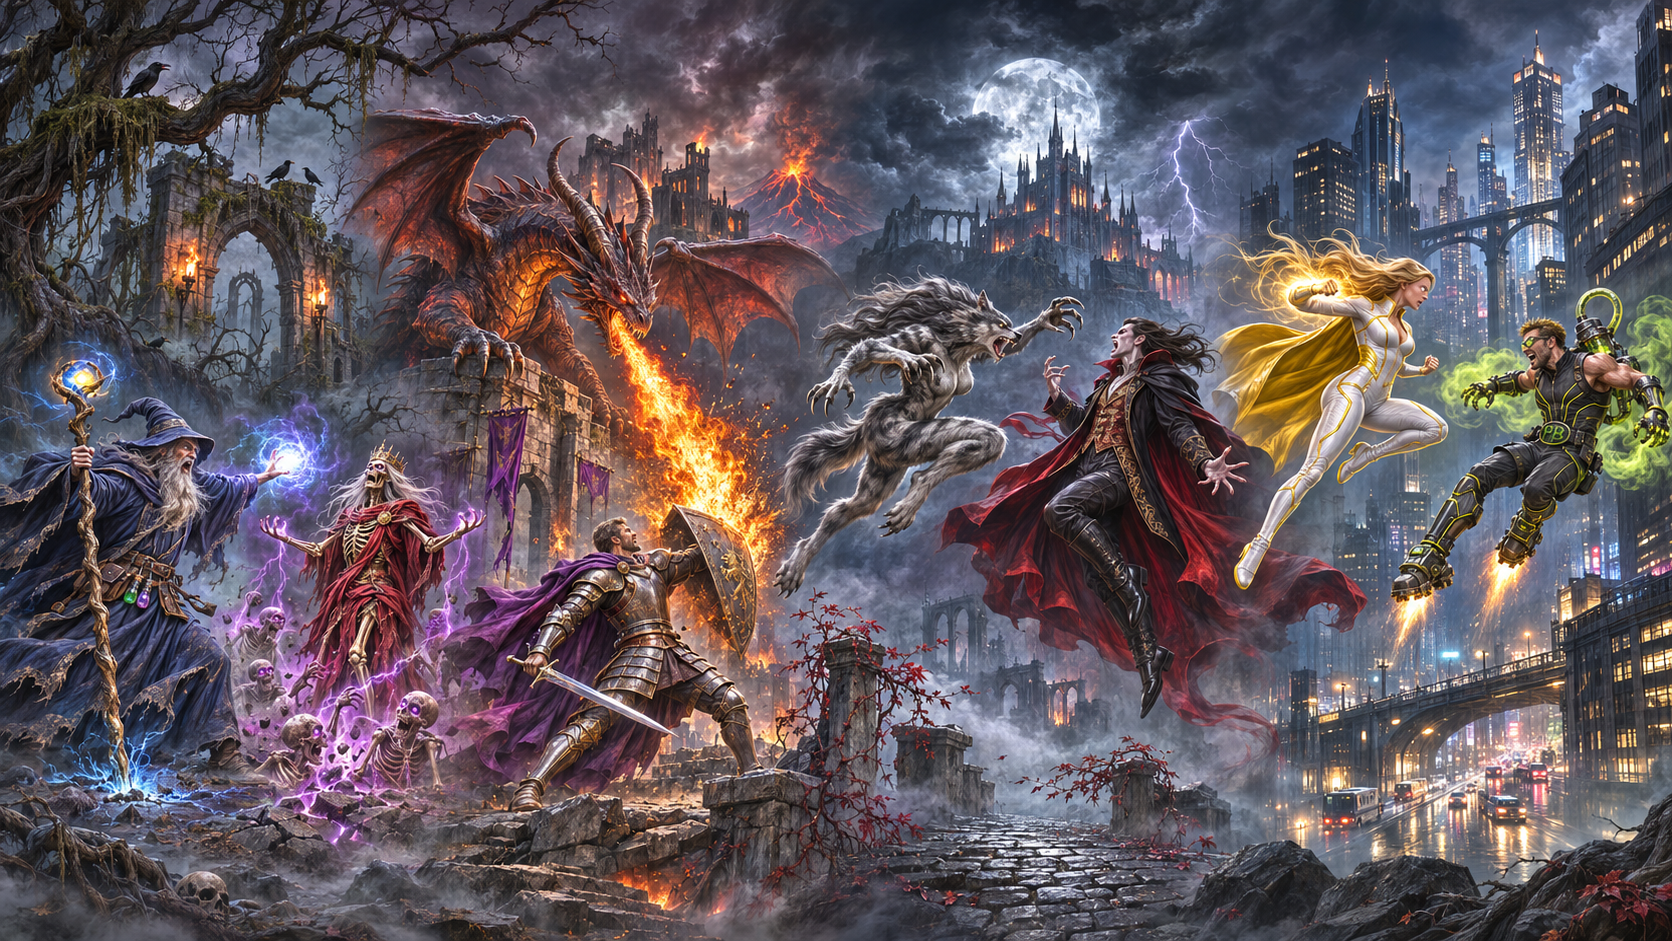
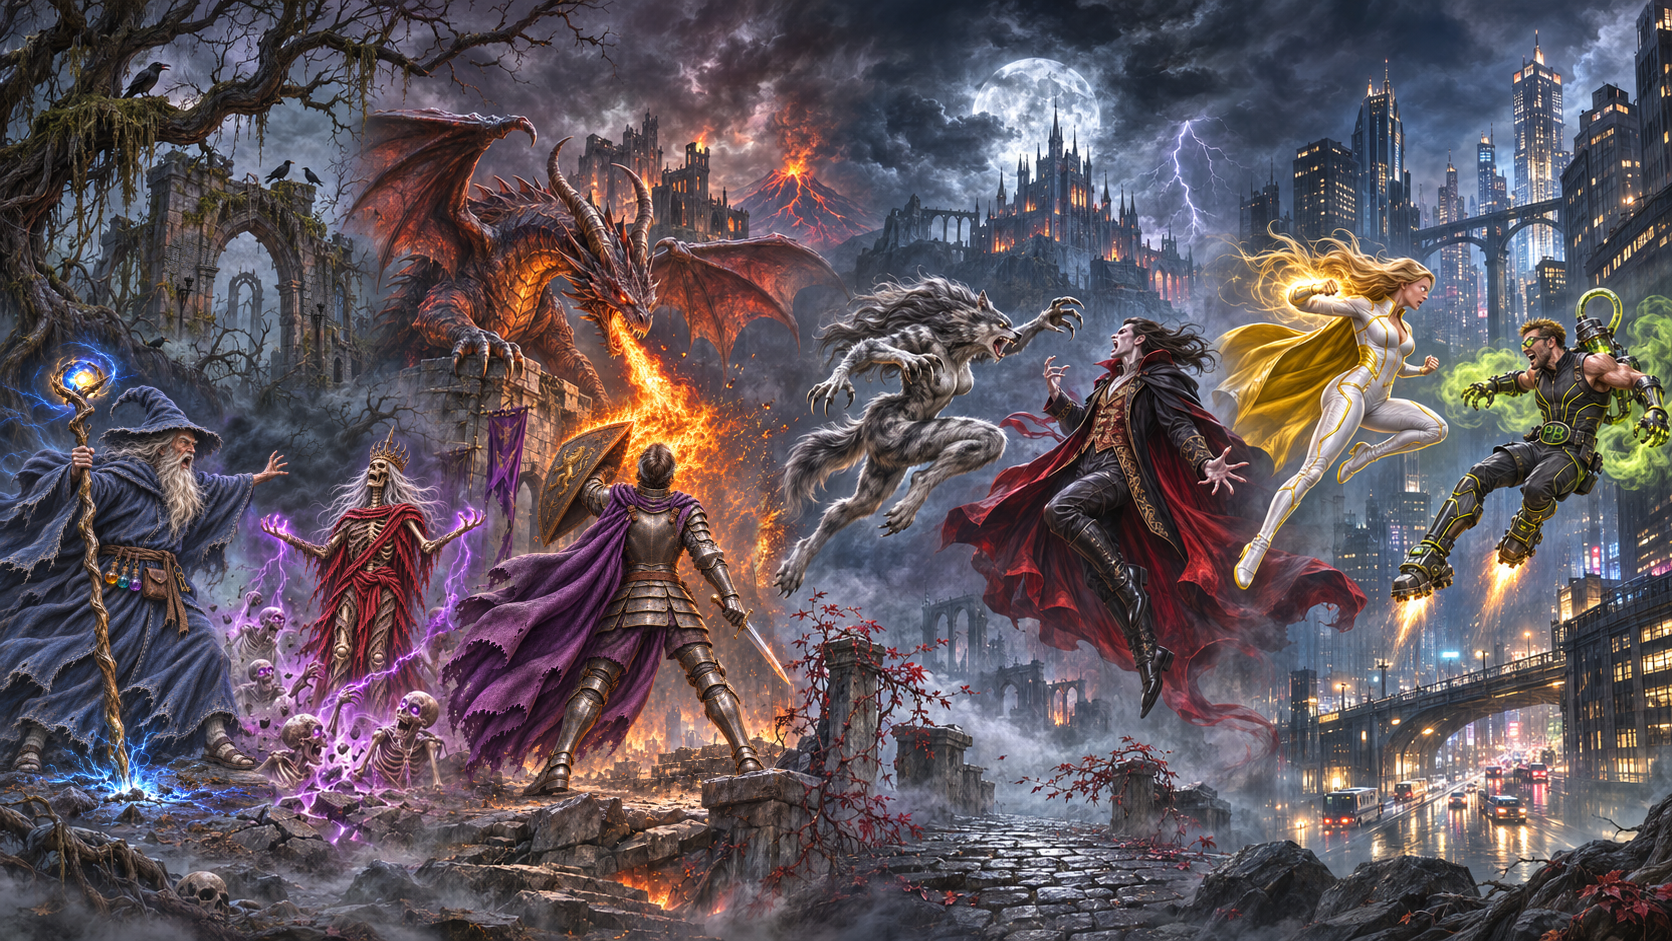
Refresh four-world mural effects
Add animated torch flames, ground fog, sparks, and necromancy wisps. Update the mural artwork and remove the crow and rising skeleton effects.

Changed region(s): [[0.0, 0.3698, 0.4976, 0.8937], [0.0933, 0.2465, 0.2177, 0.339]]

diff --git a/src/EchoesOfTheShardveil.Desktop/FourWorldMuralEffects.cs b/src/EchoesOfTheShardveil.Desktop/FourWorldMuralEffects.cs
@@ -9,8 +9,7 @@ namespace EchoesOfTheShardveil.Desktop;
 /// <summary>Animates details in the four-world menu painting in its original pixel coordinates.</summary>
 internal sealed class FourWorldMuralEffects : IDisposable
 {
-    private static readonly Point[] Torches = [new(191, 263), new(321, 295)];
-    private static readonly Point[] Crows = [new(143, 82), new(278, 171), new(309, 176)];
+    private static readonly Vector2[] Torches = [new(189, 280), new(320, 307)];
     private static readonly Point[] Windows =
     [
         new(1005, 244), new(1080, 199), new(1154, 280), new(1167, 277),
@@ -18,10 +17,14 @@ internal sealed class FourWorldMuralEffects : IDisposable
         new(1521, 84), new(1535, 114), new(1556, 123), new(1627, 198),
         new(1505, 689), new(1560, 680), new(1616, 667), new(1647, 688)
     ];
-    private static readonly (Vector2 Start, Vector2 End)[] Necromancy =
+    private static readonly Vector2 LeftPalm = new(273, 531);
+    private static readonly Vector2 RightPalm = new(471, 521);
+    private static readonly (Vector2 Socket, Vector2 Mouth, Vector2 Palm)[] Necromancy =
     [
-        (new(272, 621), new(274, 526)), (new(261, 666), new(280, 535)),
-        (new(412, 709), new(471, 520)), (new(304, 732), new(280, 535))
+        (new(274, 619), new(273, 630), LeftPalm),
+        (new(263, 670), new(261, 680), LeftPalm),
+        (new(315, 733), new(317, 746), LeftPalm),
+        (new(412, 710), new(403, 725), RightPalm)
     ];
     private static readonly Point[] Bolt =
         [new(1199, 117), new(1185, 126), new(1180, 147), new(1173, 156), new(1183, 173),
@@ -32,7 +35,8 @@ internal sealed class FourWorldMuralEffects : IDisposable
     private readonly Texture2D glow;
     private readonly Texture2D mural;
     private readonly (Texture2D Texture, Rectangle Bounds, float Motion)[] cloth;
-    private readonly (Texture2D Texture, Rectangle Bounds)[] skeletons;
+    private readonly Texture2D groundFog;
+    private readonly Texture2D torchFlame;
 
     /// <summary>Samples soft-edged patches of cloth and hair from the painting for small, localized motion.</summary>
     /// <param name="batch">The menu sprite batch.</param>
@@ -47,21 +51,13 @@ internal sealed class FourWorldMuralEffects : IDisposable
         this.mural = mural;
         cloth =
         [
-            ClothPatch(new(0, 491, 145, 258), 5),
-            ClothPatch(new(138, 459, 63, 92), 4),
-            ClothPatch(new(320, 545, 68, 139), 5),
             ClothPatch(new(494, 410, 34, 158), 4),
-            ClothPatch(new(440, 605, 187, 178), 7),
             ClothPatch(new(968, 475, 120, 172), 7),
             ClothPatch(new(1191, 550, 162, 144), 8),
             ClothPatch(new(1218, 327, 112, 141), 7)
         ];
-        skeletons =
-        [
-            RisingSkeleton(new(238, 598, 71, 83)),
-            RisingSkeleton(new(278, 711, 53, 78)),
-            RisingSkeleton(new(378, 679, 80, 117))
-        ];
+        groundFog = EmbeddedAssets.LoadPremultipliedTexture(mural.GraphicsDevice, "MainUI-GroundFog.png");
+        torchFlame = EmbeddedAssets.LoadPremultipliedTexture(mural.GraphicsDevice, "MainUI-TorchFlame.png");
     }
 
     /// <summary>Creates a soft light sprite shared by all mural effects.</summary>
@@ -102,15 +98,8 @@ internal sealed class FourWorldMuralEffects : IDisposable
             }
         }
 
-        for (var i = 0; i < skeletons.Length; i++)
-        {
-            var (texture, bounds) = skeletons[i];
-            var rise = MathHelper.SmoothStep(0, 6, Fade(Phase(time * 0.26f + i * 0.31f)));
-            batch.Draw(texture, new Vector2(bounds.X, bounds.Y - rise), Color.White * (rise / 6f));
-        }
-
+        DrawTorchFlames(time);
         DrawAtmosphere(time);
-        DrawCrows(time);
         DrawWindows(time);
         batch.End();
 
@@ -122,11 +111,19 @@ internal sealed class FourWorldMuralEffects : IDisposable
 
     private void DrawAtmosphere(float time)
     {
-        for (var i = 0; i < 5; i++)
+        for (var i = 0; i < 4; i++)
         {
-            var age = Phase(time * 0.11f + i * 0.2f);
-            Bloom(new(35 + 350 * age, 816 + 25 * (i % 3)), new(184, 29),
-                new Color(178, 188, 205), 0.22f * Fade(age), -0.08f);
+            var age = Phase(time * (0.056f + i * 0.009f) + i * 0.25f);
+            var position = new Vector2(-32 + 382 * age, 807 + 19 * i);
+            var size = new Vector2(217 + 24 * i, 35 + 8 * i);
+            DrawFog(position, size, 0.51f * Fade(age), i);
+        }
+
+        for (var i = 0; i < 3; i++)
+        {
+            var age = Phase(time * (0.067f + i * 0.012f) + i / 3f);
+            var position = new Vector2(233 + 157 * age, 770 + i * 18);
+            DrawFog(position, new Vector2(165 + 29 * i, 29 + 9 * i), 0.62f * Fade(age), i);
         }
 
         for (var i = 0; i < 3; i++)
@@ -146,28 +143,11 @@ internal sealed class FourWorldMuralEffects : IDisposable
         }
     }
 
-    private void DrawCrows(float time)
+    private void DrawFog(Vector2 position, Vector2 size, float opacity, int layer)
     {
-        for (var i = 0; i < Crows.Length; i++)
-        {
-            var clock = (time + i * 1.96f) % (6.5f + i);
-            if (clock >= 0.62f)
-            {
-                continue;
-            }
-
-            var center = Crows[i].ToVector2();
-            var lift = MathF.Abs(MathF.Sin(clock * 19));
-            var length = (i == 0 ? 25 : 15) * lift;
-            var opacity = Fade(clock / 0.62f) * lift;
-            for (var feather = 0; feather < 5; feather++)
-            {
-                var angle = 3.25f + lift * 0.72f + feather * 0.14f;
-                batch.Draw(pixel, center + new Vector2(-2, -1), null,
-                    new Color(18, 21, 26) * opacity, angle, new Vector2(0, 0.5f),
-                    new Vector2(length * (1 - feather * 0.085f), 2.5f), SpriteEffects.None, 0);
-            }
-        }
+        var textureSize = new Vector2(groundFog.Width, groundFog.Height);
+        batch.Draw(groundFog, position, null, Color.White * opacity, -0.045f, textureSize / 2,
+            size / textureSize, layer % 2 == 0 ? SpriteEffects.None : SpriteEffects.FlipHorizontally, 0);
     }
 
     private void DrawWindows(float time)
@@ -185,16 +165,24 @@ internal sealed class FourWorldMuralEffects : IDisposable
     private void DrawLights(float time)
     {
         var amber = new Color(255, 127, 36);
-        foreach (var torch in Torches)
+        for (var i = 0; i < Torches.Length; i++)
         {
-            var flicker = 0.5f + 0.3f * MathF.Sin(time * 13 + torch.X) + 0.2f * MathF.Sin(time * 21);
-            Bloom(torch.ToVector2(), new(37, 69), amber, 0.18f + 0.29f * flicker);
+            var basePosition = Torches[i];
+            var clock = time + i * 1.73f;
+            Bloom(basePosition - new Vector2(0, 14), new(51, 76), amber, 0.12f + 0.26f * TorchFlicker(clock));
+            for (var spark = 0; spark < 6; spark++)
+            {
+                var age = Phase(clock * (0.92f + spark * 0.13f) + spark * 0.37f);
+                var point = new Vector2(basePosition.X + MathF.Sin(age * 5f + spark) * (3 + 9 * age),
+                    basePosition.Y - 10 - age * (37 + spark * 3));
+                Bloom(point, new(3, 5), Color.Gold, 0.78f * Fade(age) * (1 - age));
+            }
         }
 
         for (var i = 0; i < 24; i++)
         {
             var age = Phase(time * (0.59f + i % 4 * 0.14f) + i * 0.618f);
-            var locus = Vector2.Lerp(new(625, 329), new(759, 554), age);
+            var locus = Vector2.Lerp(new(625, 329), new(641, 470), age);
             locus.X += MathF.Sin(age * 12 + i * 7) * (4 + i % 9 * 4) * age;
             Bloom(locus, new(5 + i % 5, 11), i % 2 == 0 ? amber : Color.Yellow, 0.64f * Fade(age), -0.43f);
         }
@@ -232,27 +220,21 @@ internal sealed class FourWorldMuralEffects : IDisposable
         var blue = new Color(75, 154, 255);
         var gold = new Color(255, 206, 73);
         var purple = new Color(172, 91, 255);
-        var orb = new Vector2(78, 379);
-        for (var i = 0; i < 9; i++)
+        var orb = new Vector2(81, 379);
+        for (var i = 0; i < 8; i++)
         {
-            var angle = time * 3.5f + i * MathHelper.TwoPi / 9;
-            Bloom(orb + new Vector2(MathF.Cos(angle) * 23, MathF.Sin(angle) * 15),
-                new(13, 8), i % 2 == 0 ? blue : gold, 0.55f, angle);
+            var angle = time * 1.65f + i * MathHelper.TwoPi / 8;
+            var direction = new Vector2(MathF.Cos(angle), MathF.Sin(angle));
+            var reach = 35 + i % 3 * 8;
+            var tint = i % 2 == 0 ? blue : gold;
+            Bloom(orb + direction * (reach * 0.51f), new(reach, 9), tint, 0.76f, angle);
+            Bloom(orb + direction * (reach * 0.44f), new(reach * 0.61f, 3), Color.White, 0.49f, angle);
         }
 
-        var strength = 0.55f + 0.45f * MathF.Sin(time * 4.5f);
-        Bloom(new(292, 462), new(104 + 18 * strength, 98 + 18 * strength), blue, 0.23f + 0.31f * strength);
-        Bloom(new(292, 462), new(31, 32), Color.White, 0.31f + 0.42f * strength);
-
-        foreach (var (start, end) in Necromancy)
+        foreach (var (socket, mouth, palm) in Necromancy)
         {
-            for (var i = 0; i < 9; i++)
-            {
-                var age = Phase(time * 0.72f + i / 9f);
-                var point = Vector2.Lerp(start, end, age);
-                point.X += MathF.Sin(age * 14 + time * 2 + start.X) * Fade(age) * 14;
-                Bloom(point, new(13, 30), purple, 0.34f * Fade(age), 0.24f);
-            }
+            DrawWisp(socket, palm, purple, time, -1);
+            DrawWisp(mouth, palm, purple, time, 1);
         }
 
         for (var i = 0; i < 13; i++)
@@ -265,11 +247,55 @@ internal sealed class FourWorldMuralEffects : IDisposable
         }
     }
 
+    private void DrawTorchFlames(float time)
+    {
+        var textureSize = new Vector2(torchFlame.Width, torchFlame.Height);
+        var root = textureSize * new Vector2(0.5f, 0.92f);
+        for (var i = 0; i < Torches.Length; i++)
+        {
+            var clock = time + i * 1.73f;
+            var flicker = TorchFlicker(clock);
+            var size = new Vector2(20 + 4 * flicker, 31 + 17 * flicker);
+            var sway = 0.13f * MathF.Sin(clock * 9.1f) + 0.065f * MathF.Sin(clock * 17.6f);
+            batch.Draw(torchFlame, Torches[i], null, Color.White, sway, root,
+                size / textureSize, SpriteEffects.None, 0);
+
+            // The smaller tongues grow and fade independently of the flame's core.
+            for (var tongue = 0; tongue < 2; tongue++)
+            {
+                var age = Phase(clock * (2.2f + 0.48f * tongue) + 0.43f * tongue);
+                var side = tongue == 0 ? -1 : 1;
+                var position = Torches[i] + new Vector2(side * (1 + 3 * age), -11 * age);
+                var scale = size * new Vector2(0.45f, 0.42f + 0.41f * age) / textureSize;
+                batch.Draw(torchFlame, position, null, Color.White * (0.76f * Fade(age)),
+                    sway + side * (0.13f + 0.29f * age), root, scale,
+                    tongue == 0 ? SpriteEffects.FlipHorizontally : SpriteEffects.None, 0);
+            }
+        }
+    }
+
+    private void DrawWisp(Vector2 source, Vector2 palm, Color color, float time, int curl)
+    {
+        var delta = palm - source;
+        var normal = Vector2.Normalize(new Vector2(-delta.Y, delta.X));
+        const int wisps = 15;
+        for (var i = 0; i < wisps; i++)
+        {
+            var age = Phase(time * 0.68f + i / (float)wisps + source.X * 0.007f);
+            var wave = Fade(age) * (11 * curl + 8 * MathF.Sin(age * 10 - time * 3 + source.Y));
+            var point = source + delta * age + normal * wave;
+            var opacity = 0.43f * MathF.Sin(MathF.PI * (0.12f + 0.82f * age));
+            var angle = MathF.Atan2(delta.Y, delta.X);
+            Bloom(point, new(23, 8), color, opacity, angle);
+            Bloom(point, new(14, 2.5f), Color.Plum, opacity * 0.78f, angle);
+        }
+    }
+
+    private static float TorchFlicker(float clock) => 0.5f + 0.24f * MathF.Sin(clock * 15.7f)
+        + 0.16f * MathF.Sin(clock * 26.9f) + 0.1f * MathF.Sin(clock * 39.1f);
+
     private (Texture2D Texture, Rectangle Bounds, float Motion) ClothPatch(Rectangle bounds, float motion) =>
         (Sample(bounds), bounds, motion);
-
-    private (Texture2D Texture, Rectangle Bounds) RisingSkeleton(Rectangle bounds) =>
-        (Sample(bounds), bounds);
 
     private Texture2D Sample(Rectangle bounds)
     {
@@ -295,16 +321,14 @@ internal sealed class FourWorldMuralEffects : IDisposable
 
     private static float Fade(float phase) => MathF.Sin(MathF.PI * phase);
 
-    /// <summary>Releases the sampled animation textures.</summary>
+    /// <summary>Releases the animation textures owned by the mural.</summary>
     public void Dispose()
     {
         foreach (var (texture, _, _) in cloth)
         {
             texture.Dispose();
         }
-        foreach (var (texture, _) in skeletons)
-        {
-            texture.Dispose();
-        }
+        groundFog.Dispose();
+        torchFlame.Dispose();
     }
 }
